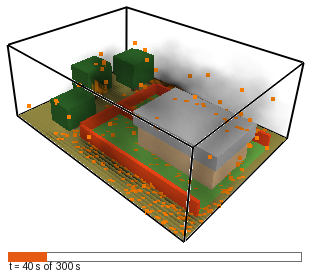
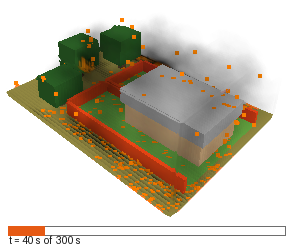
render: remove Smokeview's mesh boundary box
There is no script command for the mesh outline -- the o key cycles it, but KEYBOARD in a batch run has no effect (three presses changed nothing). The lines are inpainted out instead: near-pure black, 1.48% of the frame, and nothing else in these scenes is that dark. Cropping tightens as a result.

diff --git a/scripts/render_animation.py b/scripts/render_animation.py
@@ -177,6 +177,40 @@ def white_box(paths, pad=6):
             min(w, hi_x + pad), min(h, hi_y + pad))
 
 
+def remove_outline(path, thresh=20, grow=2):
+    """Erase Smokeview's mesh boundary box from a rendered frame.
+
+    There is no script command for it: the `o` key cycles 1 current mesh /
+    2 whole case / 3 none, but KEYBOARD in a batch run has no effect (three
+    presses changed nothing).  So the lines are inpainted out instead.
+
+    Safe because the lines are near-pure black (1.48% of the frame) and
+    nothing else in these scenes is that dark -- the darkest geometry is the
+    roof's shadowed side at mid grey.  Pixels below `thresh` are taken as the
+    line, grown to catch the antialiased fringe, and replaced with the median
+    of the untouched pixels around them.
+    """
+    import numpy as np
+    from PIL import Image
+
+    im = Image.open(path).convert("RGB")
+    a = np.asarray(im, int)
+    m = a.max(axis=2) < thresh
+    if not m.any():
+        return 0
+    for _ in range(grow):
+        m = (m | np.roll(m, 1, 0) | np.roll(m, -1, 0)
+             | np.roll(m, 1, 1) | np.roll(m, -1, 1))
+    out = a.copy()
+    for y, x in zip(*np.nonzero(m)):
+        y0, y1 = max(0, y - 3), min(a.shape[0], y + 4)
+        x0, x1 = max(0, x - 3), min(a.shape[1], x + 4)
+        good = a[y0:y1, x0:x1][~m[y0:y1, x0:x1]]
+        out[y, x] = np.median(good, axis=0) if len(good) else 255
+    Image.fromarray(out.astype(np.uint8)).save(path)
+    return int(m.sum())
+
+
 def add_timebar(path, t, t_end):
     """Draw a progress bar along the bottom, so the animation shows its time.
 
@@ -245,6 +279,12 @@ if __name__ == "__main__":
     print("rendered %d of %d frames" % (len(paths), len(TIMES)))
 
     from PIL import Image
+    # the mesh boundary box cannot be switched off from the script, so it is
+    # painted out before the frame is cropped
+    if not CONFIG.get("show_outline", False):
+        for p in paths:
+            remove_outline(p)
+
     box = white_box(paths)
     t_end = max(TIMES)
     for p, t in zip(paths, [t for t in TIMES

diff --git a/scripts/mesh_outline.py b/scripts/mesh_outline.py
@@ -1,0 +1,44 @@
+"""Measure the mesh boundary box Smokeview draws, to judge removability.
+
+Smokeview has no script command for the mesh outline: the `o` key cycles
+1 current mesh / 2 whole case / 3 none, but sending it via KEYBOARD in a batch
+run has no effect (verified -- three presses changed nothing).  So the only
+route is to remove the lines from the rendered pixels, which is only safe if
+they are thin, and darker than anything else in the frame.
+
+This reports, for one frame: how dark the darkest pixels are, how wide the
+runs of them are, and how much of the frame is that dark at all.
+"""
+import os, sys
+
+_d = os.path.dirname(os.path.abspath(__file__))
+while not os.path.isfile(os.path.join(_d, "paths.py")):
+    _d = os.path.dirname(_d)
+sys.path.insert(0, _d)
+
+import numpy as np
+from PIL import Image
+
+if len(sys.argv) < 2:
+    sys.exit("usage: mesh_outline.py <frame.png>")
+a = np.asarray(Image.open(sys.argv[1]).convert("RGB"), int)
+dark = a.max(axis=2)
+
+print("%s  %d x %d" % (sys.argv[1], a.shape[1], a.shape[0]))
+for t in (10, 40, 80, 140, 200):
+    n = int((dark < t).sum())
+    print("  max-channel < %-3d : %6d px  (%.2f%%)" % (t, n, 100.0 * n / dark.size))
+
+# run lengths of very dark pixels along rows, to see how thick the lines are
+row = dark < 40
+runs = []
+for r in row:
+    n = 0
+    for v in r:
+        if v:
+            n += 1
+        elif n:
+            runs.append(n)
+            n = 0
+print("\ndark run lengths along rows: %s" % sorted(set(runs))[:12])
+print("total dark runs: %d" % len(runs))
